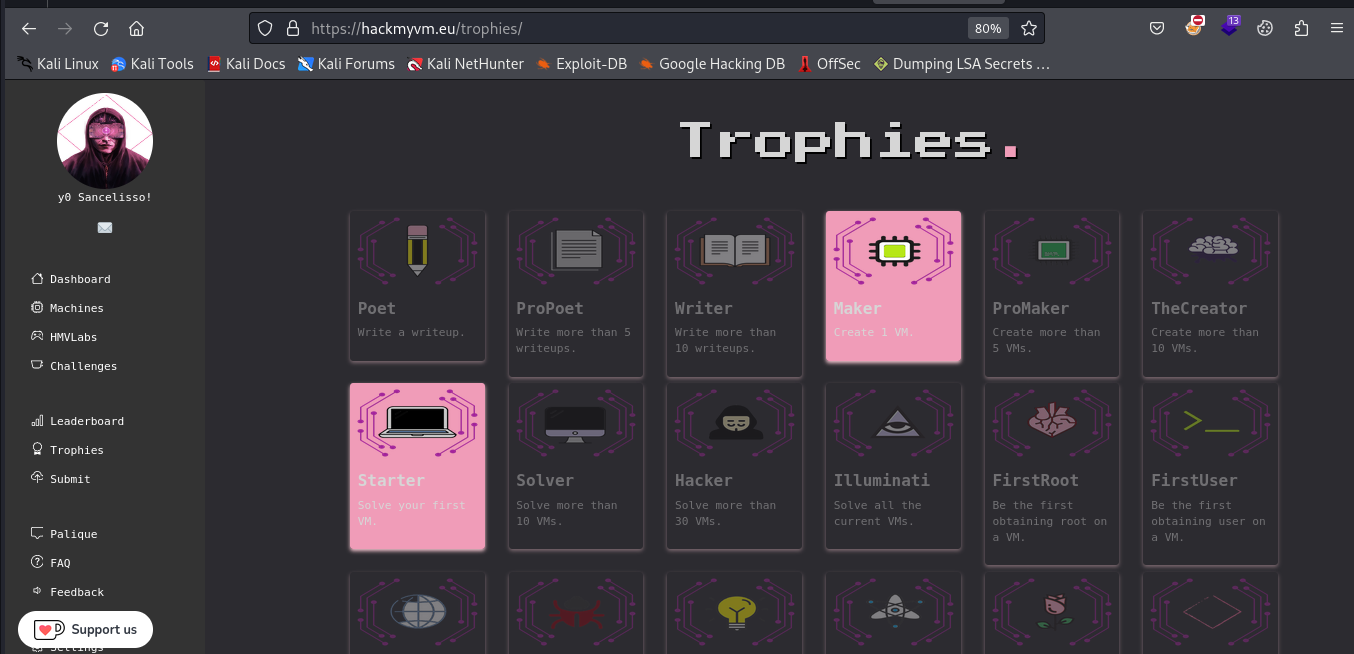
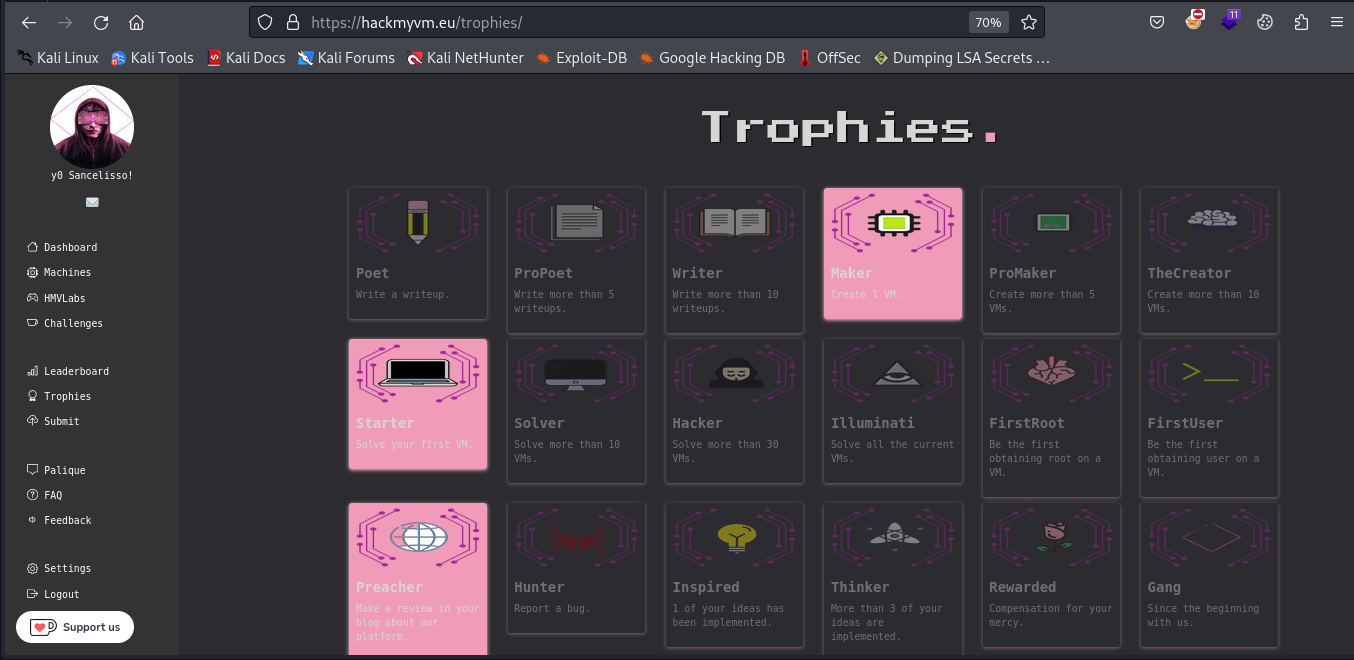
Update of my post

diff --git a/_posts/2024-01-03-hackmyvm-platform-review.md b/_posts/2024-01-03-hackmyvm-platform-review.md
@@ -13,7 +13,7 @@ Hello everyone. Today i have the pleasure to shed a light on a new platform that
 
 ## HackMyVm purpose
 
-HackMyVm is a platform that hosts a bunch of vulnerable machine downloadable by anyone and allows you submit the proof of hacking (that's called flag). It is a Capture The Flag (CTF) platform like a Vulnhub which is not currently updated. HackMyVm is the new vulnhub with a lot new features.
+HackMyVm is a platform that hosts a bunch of vulnerable machine downloadable by anyone and allows you submit the proof of hacking (that's called flag). It is a Capture The Flag (CTF) platform like a Vulnhub which is not currently updated. HackMyVm is the new vulnhub with a lot of new features.
 
 
 ## HackMyVm features
@@ -36,7 +36,7 @@ You have the honor to see the latest logs about machines that are currently been
 
 Trophies here are like a badge which you can earn by completing some activities or progressing on hacking machines or solving challenges.
 
-On my side, i have just earned two trophies: Starter and Maker
+On my side, i have just earned two trophies: Starter, Maker and Preacher
 
 ### Leaderboard
 
